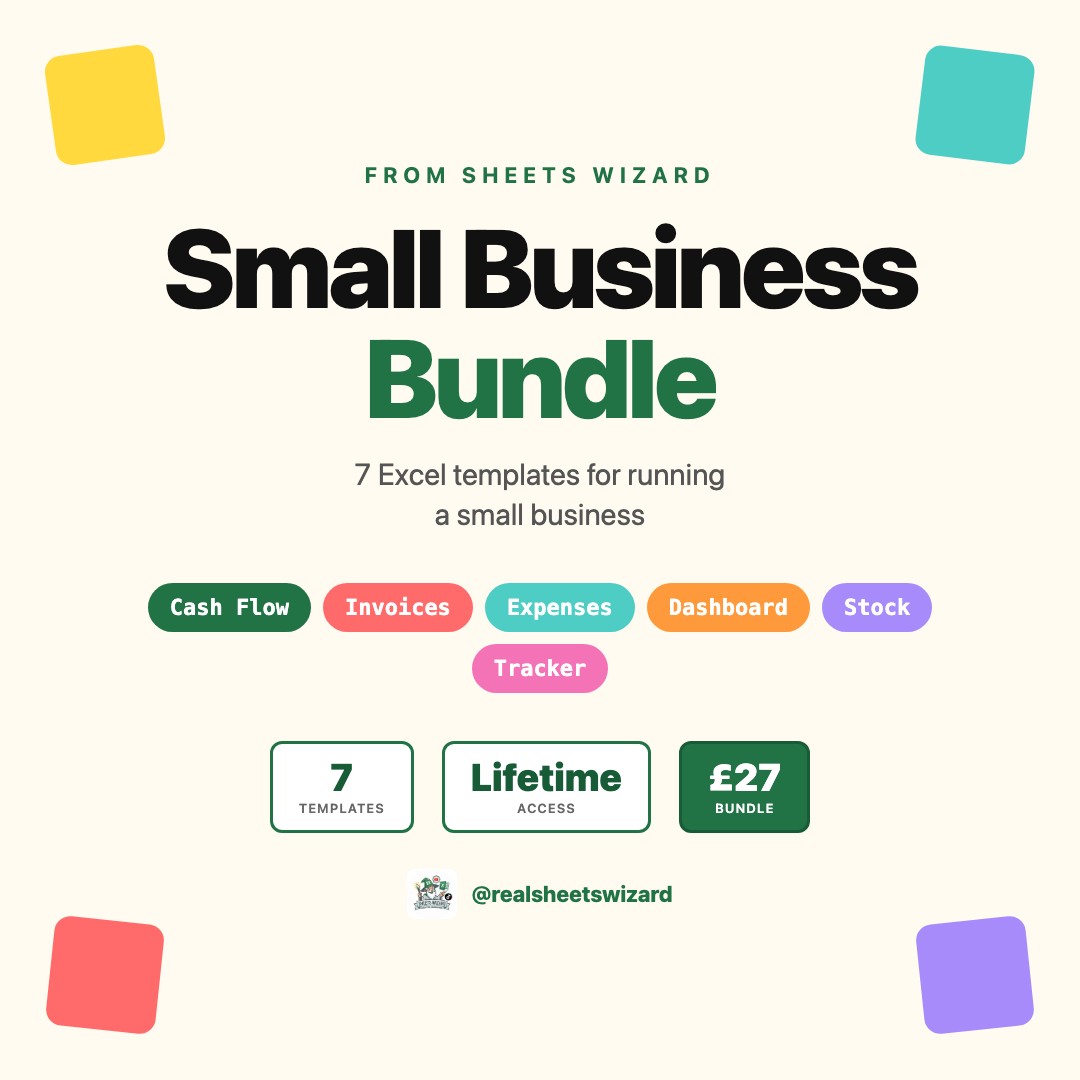
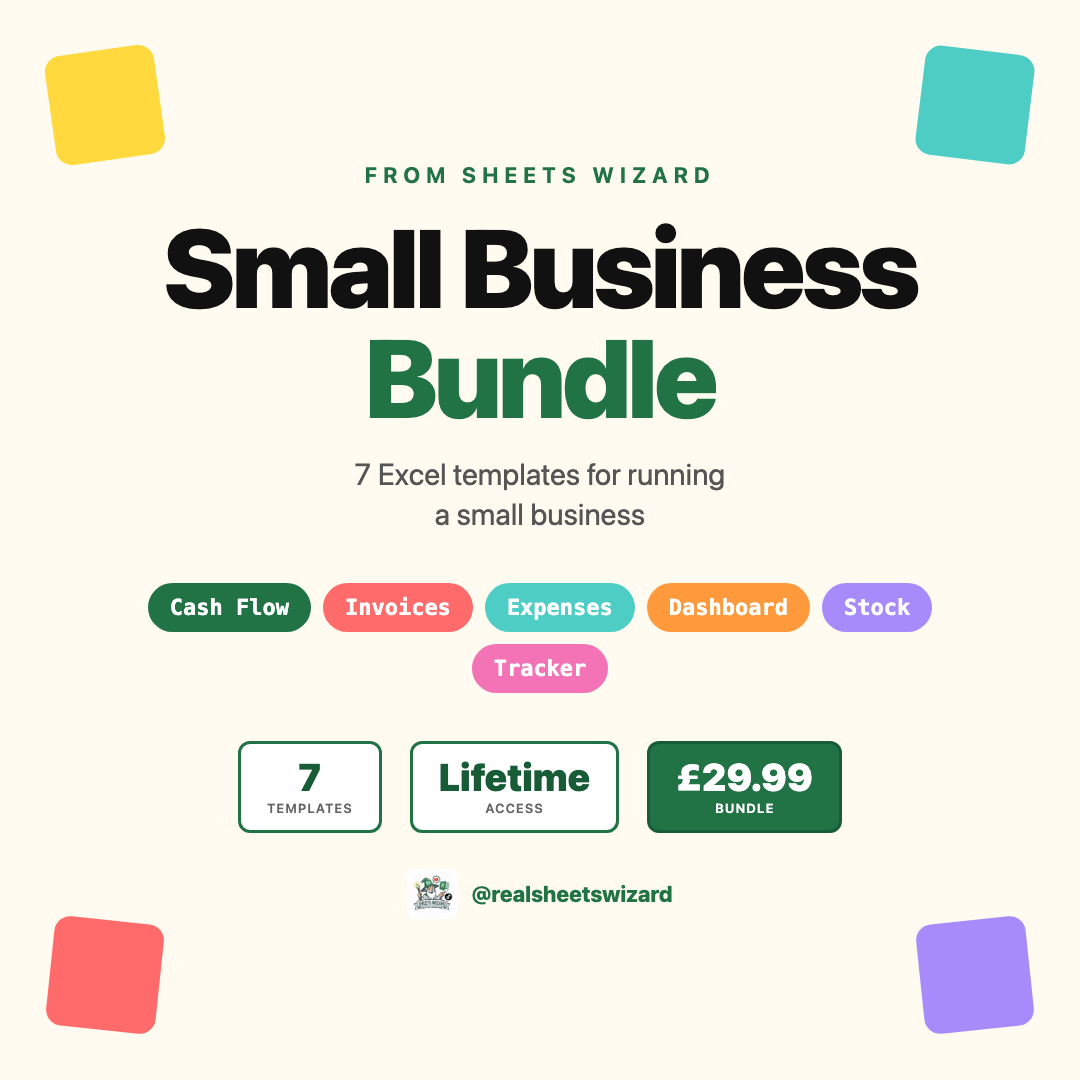
Update prices: Formula Playbook £11.99, Small Business Bundle £29.99 (VAT-inclusive)

diff --git a/index.html b/index.html
@@ -363,10 +363,10 @@
             <img src="formula-playbook-thumbnail.png" alt="The Formula Playbook">
           </div>
           <div class="card-body">
-            <span class="card-badge paid">£9.99</span>
+            <span class="card-badge paid">£11.99</span>
             <div class="card-title">The Formula Playbook</div>
             <div class="card-desc">40 Excel formulas that run a small business. Worked examples for each. The complete reference.</div>
-            <div class="card-price">£9.99</div>
+            <div class="card-price">£11.99</div>
             <!-- Replace with actual Payhip product URL -->
             <a href="REPLACE_WITH_PAYHIP_FORMULA_PLAYBOOK_URL" class="btn btn-primary" target="_blank">Get The Playbook</a>
           </div>
@@ -378,10 +378,10 @@
             <img src="small-business-bundle-thumbnail.png" alt="Small Business Excel Bundle">
           </div>
           <div class="card-body">
-            <span class="card-badge paid">£27</span>
+            <span class="card-badge paid">£29.99</span>
             <div class="card-title">Small Business Excel Bundle</div>
             <div class="card-desc">Seven ready-to-use Excel templates. Dashboards, trackers, forecasts, and more.</div>
-            <div class="card-price">£27</div>
+            <div class="card-price">£29.99</div>
             <!-- Replace with actual Payhip product URL -->
             <a href="REPLACE_WITH_PAYHIP_BUNDLE_URL" class="btn btn-primary" target="_blank">Get The Bundle</a>
           </div>